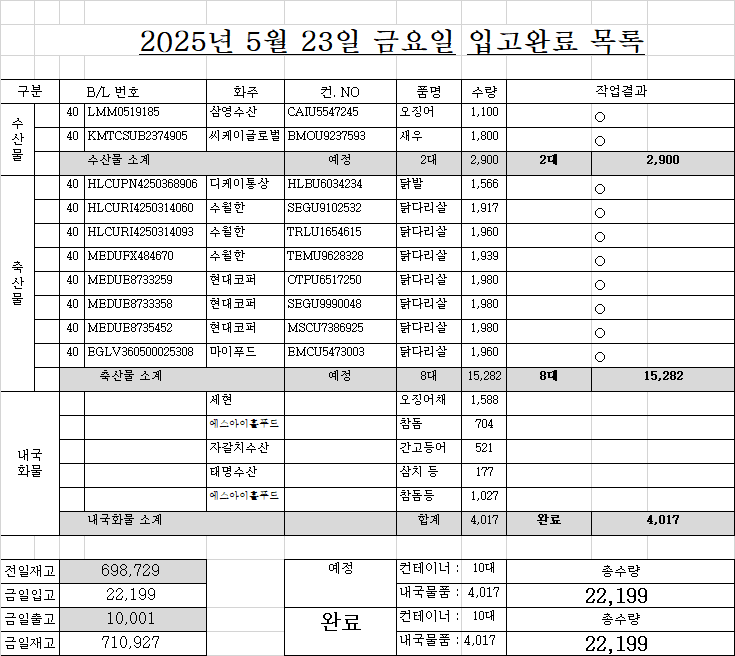
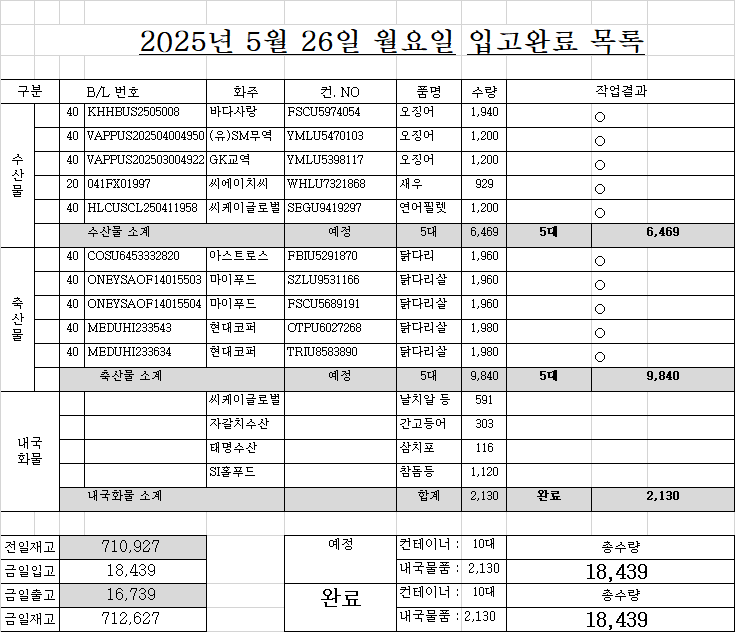
SDFSFSDF

diff --git a/list.html b/list.html
@@ -156,49 +156,48 @@
 </div>
 <!-- ★★★★★★ 따로 빼 놔야한다. 복붙하면 첫칸 비어도 되는데, 여기서는 첫칸비우면 당겨진다. -->
 <!-- ★ 엑셀범위를 브라우저 textarea에 붙여넣으면 첫셀 비어도 제대로 되는데... HTML에 붙여놓은 자료는 처음셀이 비어있으면 당겨짐 -->
-<div class="d-none" id="원본text_리스트1부터w요약열까지">작성	면허	B/LNO.	화주	컨테이너NO.	품명	수량	반입NO.	입항일	구분	도착일	도착시간	구분	운.도VBA	05/23 금 17:03	화찰BL	화찰 선명	화물관리번호	화찰수량	화찰중량	화찰입항	리스트시트기준열	
-1	○	KHHBUS2505008	바다사랑	FSCU5974054	오징어	1,940 	BPT감만	5/22	1				BPT감만		KHHBUS2505008	TS KAOHSIUNG	25TSLUB068I-1046-0001	1,940 	24,680.00 	2025.05.22	05/23 금 17:03	
-1	○	VAPPUS202504004950	(유)SM무역	YMLU5470103	오징어	1,200 	?????(양밍).BCT	5/23	1	양밍			?????(양밍).BCT		VAPPUS202504004950	WAN HAI 625	25WHLUS207I-4017-0001	1,200 	24,450.00 	2025.05.22	조회정보	
-1	○	VAPPUS202503004922	GK교역	YMLU5398117	오징어	1,200 	????(양밍).BCT	5/23	1	양밍			????(양밍).BCT		VAPPUS202503004922	WAN HAI 625	25WHLUS207I-4010-0001	1,200 	24,900.00 	2025.05.22	적재	57 
+<div class="d-none" id="원본text_리스트1부터w요약열까지">작성	면허	B/LNO.	화주	컨테이너NO.	품명	수량	반입NO.	입항일	구분	도착일	도착시간	구분	운.도VBA	05/26 월 16:36	화찰BL	화찰 선명	화물관리번호	화찰수량	화찰중량	화찰입항	리스트시트기준열	
+1	○	ONEYBNDF00980400	(주)우원	ONEU8015169	새우	638 		5/24	1			20 			ONEYBNDF00980400	HYUNDAI FAITH	25HDMUA232I-5005-	638 	6,890.40 	2025.05.25	05/26 월 16:36	
+1	○	ONEYBNDF00982600	(주)우원	SZLU2034316	새우	639 		5/24	1			20 			ONEYBNDF00982600	HYUNDAI FAITH	25HDMUA232I-5006-	639 	6,901.20 	2025.05.25	조회정보	
+1	○	PG0007NPU3833R	씨에이치씨	SEGU9878357	새우	800 		5/26	1			20 			PG0007NPU3833R	SPIL NINGSIH	25ONEY0613I-0019-0001	800 	9,400.00 	2025.05.26	적재	57 
 1		SOFRNWB2519590	해솔무역	CHIU9016473	아귀	1,820 		5/26	1												4,617 	3줄
-1		041FX01997	씨에이치씨	WHLU7321868	새우	929 			1			20 									6,156 	4줄
-1		FG0007NPU3833R	씨에이치씨	SEGU9878357	새우	800 			1			20 									7,695 	5줄
-1		COSU6453332820	아스트로스	FBIU5291870	닭다리	1,960 	DGT	5/23	2				DGT			SONG YUN HE(AK8)					9,234 	6줄
-1		ONEYSAOF14015503	마이푸드	SZLU9531166	닭다리살	1,960 	HPNT	5/24	2				HPNT			TS NINGBO						
-1		ONEYSAOF14015504	마이푸드	FSCU5689191	닭다리살	1,960 	HPNT	5/24	2				HPNT			TS NINGBO					출고/입고 4주간	
-1	○	MEDUHI233543	현대코퍼	OTPU6027268	닭다리살	1,980 	PNIT	5/24	2				PNIT		MEDUHI233543	MSC JUBILEE IX	25MSCU2103I-0174-	1,980 	24,948.00 	2025.05.24	1일 7/5	5일줄
-1	○	MEDUHI233634	현대코퍼	TRIU8583890	닭다리살	1,980 	PNIT	5/24	2				PNIT		MEDUHI233634	MSC JUBILEE IX	25MSCU2103I-0173-	1,980 	24,948.00 	2025.05.24	15,269 	49.6
-		ONEYBNDF00980400	(주)우원	ONEU8015169	새우	638 		5/24	1			20 									15,406 	50.1
-		ONEYBNDF00982600	(주)우원	SZLU2034316	새우	639 		5/24	1			20 									내국제외	
-		MAEUSSZ783520	대상 주식회사	MNBU4483596	닭다리살	1,980 	PNC	5/24	2				PNC			GOOD PROSPECT					구분	대수
-		HLCUSCL250411958	씨케이글로벌	SEGU9419297	연어필렛	1,200 	PNC	5/24	1				PNC			MSC LELLA					수산	28
-		SNG0460561	씨케이글로벌	CGMU5549655	연어	810 		5/24	1												축산	26
-		MAEU252127813	현대그린	MNBU4017833	닭다리	1,950 	PNC	5/24	2				PNC			GOOD PROSPECT					합계	54
-		MAEU720746420	현대그린	MNBU3068749	닭다리	1,916 	PNC	5/24	2				PNC			GOOD PROSPECT						
-		MAEU720748834	현대그린	MNBU4142049	닭다리	1,916 	PNC	5/24	2				PNC			GOOD PROSPECT					화주별 요약	
-		MEDUSF554738	현대코퍼	MSCU7328940	닭다리살	1,980 	BCT	5/24	2				BCT			MSC MAPUTO					화주	대수
-		HDMUSAOA58311701	대성무역	HMMU5533002	닭다리	1,960 	HPNT	5/25	2				HPNT			HYUNDAI FAITH					삼영수산	10
-		HLCUIT1250319753	현대코퍼	HLBU9871430	닭다리살	1,980 	PNC	5/25	2				PNC			FRANKFURT EXPRESS					현대코퍼	5
-		MEDUE8743670	현대코퍼	CXRU1457430	닭다리살	1,980 		5/25	2												씨케이글로벌	5
-		ANTBUS2505003	우원홀딩스	SEGU9948480	새우	1,564 	?????(완하이).BPT감만	5/27	1	완하이		40 	?????(완하이).BPT감만			WAN HAI 289					현대그린	4
-		UNISGN20252398	우원홀딩스	TEXU9035199	새우	900 		5/27	1			20 									아스트로스	3
-		HDMUBOMA88015200	해솔무역	HMMU5483811	조기	2,300 	HPNT	5/27	1				HPNT			HYUNDAI FORWARD					대상 주식회사	3
-		NSSLLCBSC2500329	뉴아시아	SZLU9926103	닭날개	1,925 		5/28	2												수월한	3
-		A06FX01419	세현	FSCU5968719	오징어	1,705 		5/28	1												해솔무역	2
-		ONEYRICFK4344700	씨케이글로벌	SZLU9532394	북방대합	1,598 	HJNC	5/28	1				HJNC			ZENITH LUMOS					씨에이치씨	2
-		HLCUPN4250371249	현대그린	HLBU9291560	닭다리살	1,950 	HJNC	5/28	2				HJNC			YM WITNESS					마이푸드	2
+1	○	MEDUSF554738	현대코퍼	MSCU7328940	닭다리살	1,980 	BCT	5/24	2				BCT		MEDUSF554738	MSC MAPUTO	25MSCU4197I-0043-	1,980 	24,948.00 	2025.05.25	6,156 	4줄
+1		HDMUSAOA58311701	대성무역	HMMU5533002	닭다리	1,960 	HPNT	5/25	2				HPNT			HYUNDAI FAITH					7,695 	5줄
+1	○	MEDUHI247121	마이푸드	MSCU7430479	닭다리살	1,958 		5/25	2						MEDUHI247121	MSC MAPUTO	25MSCU4197I-0618-	1,958 	24,486.82 	2025.05.25	9,234 	6줄
+1	○	MEDUHI247188	마이푸드	CXRU1440611	닭다리살	1,958 		5/25	2						MEDUHI247188	MSC MAPUTO	25MSCU4197I-0617-	1,958 	24,486.79 	2025.05.25		
+1		HLCUIT1250319753	현대코퍼	HLBU9871430	닭다리살	1,980 	PNC	5/25	2				PNC			FRANKFURT EXPRESS					출고/입고 4주간	
+1	○	MEDUE8743670	현대코퍼	CXRU1457430	닭다리살	1,980 		5/25	2						MEDUE8743670	MSC MAPUTO	25MSCU4197I-0626-	1,980 	24,948.00 	2025.05.25	1일 7/5	5일줄
+2	○	NSSLBKBSC2500244	온새미정	SEKU9407958	닭날개	1,804 		5/21	2						NSSLBKBSC2500244	STARSHIP AQUILA	25NSSLE071I-3002-	1,804 	19,654.58 	2025.05.21	15,561 	50.6
+2	○	HDMUSAOA02291101	수월한	HDMU5576990	닭고기	1,960 	면허	5/25	2						HDMUSAOA02291101	HYUNDAI FAITH	25HDMUA232I-0056-	1,960 	24,500.00 	2025.05.25	15,998 	52
+		MAEUSSZ783520	대상 주식회사	MNBU4483596	닭다리살	1,980 	PNC	5/24	2				PNC			GOOD PROSPECT					내국제외	
+		SNG0460561	씨케이글로벌	CGMU5549655	연어	810 		5/24	1												구분	대수
+		MAEU252127813	현대그린	MNBU4017833	닭다리	1,950 	PNC	5/24	2				PNC			GOOD PROSPECT					수산	27
+		MAEU720746420	현대그린	MNBU3068749	닭다리	1,916 	PNC	5/24	2				PNC			GOOD PROSPECT					축산	28
+		MAEU720748834	현대그린	MNBU4142049	닭다리	1,916 	PNC	5/24	2				PNC			GOOD PROSPECT					합계	55
+		NYD212505004	우원홀딩스	TEXU9032707	새우	864 		5/26	1			20 										
+		ANTBUS2505003	우원홀딩스	SEGU9948480	새우	1,564 	?????(완하이).BPT감만	5/27	1	완하이		40 	?????(완하이).BPT감만			WAN HAI 289					화주별 요약	
+		UNISGN20252398	우원홀딩스	TEXU9035199	새우	900 		5/27	1			20 									화주	대수
+		HDMUBOMA88015200	해솔무역	HMMU5483811	조기	2,300 	HPNT	5/27	1				HPNT			HYUNDAI FORWARD					삼영수산	10
+		NSSLLCBSC2500329	뉴아시아	SZLU9926103	닭날개	1,925 		5/28	2												수월한	6
+		003FX02846	세현	SEKU9162813	오징어	1,500 		5/28	1												씨케이글로벌	4
+		003FX02846	세현	SZLU9752378	오징어	1,500 		5/28	1												현대그린	4
+		003FX02846	세현	SZLU9755525	오징어	1,500 		5/28	1												세현	4
+		A06FX01419	세현	FSCU5968719	오징어	1,705 		5/28	1												현대코퍼	3
+		ONEYRICFK4344700	씨케이글로벌	SZLU9532394	북방대합	1,598 	HJNC	5/28	1				HJNC			ZENITH LUMOS					대상 주식회사	3
+		HLCUPN4250371249	현대그린	HLBU9291560	닭다리살	1,950 	HJNC	5/28	2				HJNC			YM WITNESS					우원홀딩스	3
+		HLCUIT1250409353	수월한	HLBU9393599	닭다리살	1,958 		5/29	2												아스트로스	3
 		MEDUSF531637	대성무역	MEDU9029013	닭다리	1,960 	PNC	5/30	2				PNC			MSC MIA					(주)우원	2
-		ONEYSAOF14383600	대상 주식회사	ONEU9419870	닭다리살	1,980 	PNIT	5/31	2				PNIT			BUENOS AIRES EXPRESS					대성무역	2
-		HLCUIT1250320861	수월한	CAIU5530221	닭다리	1,958 	PNIT	5/31	2				PNIT			CAUQUENES					우원홀딩스	2
-		COSU6411879468	아스트로스	FBIU5152792	닭다리	1,958 	BNCT	5/31	2				BNCT			COSCO SHIPPING ROSE					이마트	2
-		COSU6412397050	이마트	TTNU8273967	닭다리	1 	BNCT	5/31	2				BNCT			COSCO SHIPPING ROSE					바다사랑	1
-		HLCUIT1250320850	수월한	HLBU6005832	닭다리살	1,958 		6/1	2												(유)SM무역	1
-		ONEYSGZF03740900	씨케이글로벌	TRIU6688146	새우	1,290 		6/1	1			20 									GK교역	1
+		ONEYSAOF14383600	대상 주식회사	ONEU9419870	닭다리살	1,980 	PNIT	5/31	2				PNIT			BUENOS AIRES EXPRESS					해솔무역	2
+		HLCUIT1250320861	수월한	CAIU5530221	닭다리	1,958 	PNIT	5/31	2				PNIT			CAUQUENES					대성무역	2
+		COSU6411879468	아스트로스	FBIU5152792	닭다리	1,958 	BNCT	5/31	2				BNCT			COSCO SHIPPING ROSE					마이푸드	2
+		COSU6412397050	이마트	TTNU8273967	닭다리	1 	BNCT	5/31	2				BNCT			COSCO SHIPPING ROSE					이마트	2
+		HLCUIT1250320850	수월한	HLBU6005832	닭다리살	1,958 		6/1	2												씨에이치씨	1
+		ONEYSGZF03740900	씨케이글로벌	TRIU6688146	새우	1,290 		6/1	1			20 									온새미정	1
 		SSZ1617391C	대상 주식회사	SZLU9191805	닭다리살	1,980 		6/4	2							CMA CGM BYBLOS 					뉴아시아	1
-		HLCULI3250405954	삼영수산	TRIU8073541	오징어	1,100 		6/4	1							IQUIQUE EXPRESS					세현	1
-		HLCULI3250414545	삼영수산	HLBU9398760	오징어	1,100 		6/4	1							IQUIQUE EXPRESS					더맛있는하루	1
-		HLCULI3250428129	삼영수산	CXRU1322645	오징어	1,180 		6/4	1							IQUIQUE EXPRESS					하나교역	1
-		MAEU251454855	수월한	MNBU4145140	닭발	1,749 		6/4	2							COYHAIQUE					합계	54
+		HLCULI3250405954	삼영수산	TRIU8073541	오징어	1,100 		6/4	1							IQUIQUE EXPRESS					더맛있는하루	1
+		HLCULI3250414545	삼영수산	HLBU9398760	오징어	1,100 		6/4	1							IQUIQUE EXPRESS					하나교역	1
+		HLCULI3250428129	삼영수산	CXRU1322645	오징어	1,180 		6/4	1							IQUIQUE EXPRESS					합계	55
+		MAEU251454855	수월한	MNBU4145140	닭발	1,749 		6/4	2							COYHAIQUE						
 		MAEU607466610	더맛있는하루	MNBU4517926	닭장각	1,580 		6/8	2							GSL VIOLETTA						
 		MAEUJBS262899	이마트	SUDU5294817	닭다리	1,953 	PNC	6/8	2				PNC			NHAVA SHEVA EXPRESS 						
 		DLPMC00087298	삼영수산	SEKU9072242	오징어	1,225 		6/12	1													
@@ -206,14 +205,13 @@
 		LMM0522498	삼영수산	CGMU5556546	오징어	1,100 		6/15	1													
 		ONEYLIMF06948600	삼영수산	IKSU2507500	오징어	1,177 		6/15	1							YM MODESTY						
 		ONEYLIMF06948600	삼영수산	IKSU2511877	오징어	1,180 		6/15	1							YM MODESTY						
+		HDMUSAOA82617300	아스트로스	TEMU9692374	닭발	1,500 		6/15	2													
 		ACD0818245	씨케이글로벌	TCLU1143344	홍합살	2,000 		6/16	1													
 		MEDUP3893740	삼영수산	MSDU9009190	오징어	1,120 		6/21	1													
 		MEDUP3893740	삼영수산	FSCU5800664	오징어	1,118 		6/21	1													
 		COSU6453343500	아스트로스	FSCU5761465	닭다리살	1,960 		6/21	2													
+	○	MEDUFX484670	수월한	TEMU9628328	닭고기	1,958 	면허	9/21	2						MEDUFX484670	MSC DAKAR X	25MSCU4185I-0308-	1,958 	24,583.30 	2025.05.21		
 		COHECAS37225901	하나교역	BMOU9504180	키조개살	1,772 			1													
-		NSSLBKBSC2500244	온새미정	SEKU9407958	닭날개	1,804 			2													
-		MEDUHI247188	마이푸드	CXRU1440611	닭다리살	1,958 		5/25	2													
-		MEDUHI247121	마이푸드	MSCU7430479	닭다리살	1,958 		5/25	2													
 </div>
 <div class="d-none" id="원본text_입항관리도크부터도착항우측까지">도크	화주	컨테이너	작업순서	상세내용 참조		운송사	물품		03/14 금 16:25	B/L	도착항	상세내용
 </div>   
